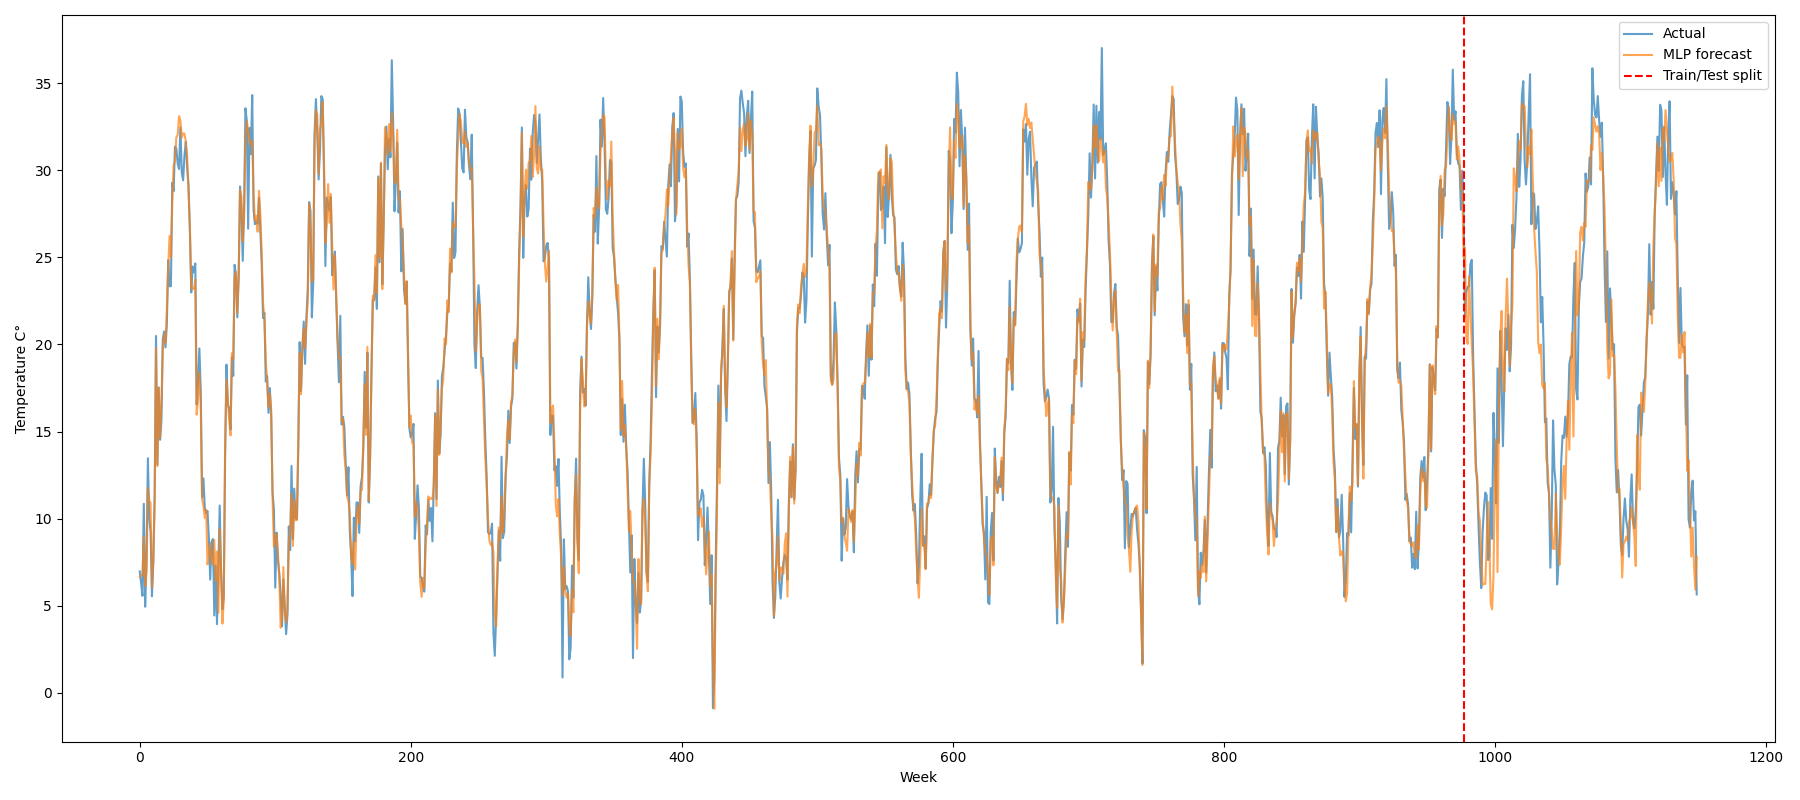
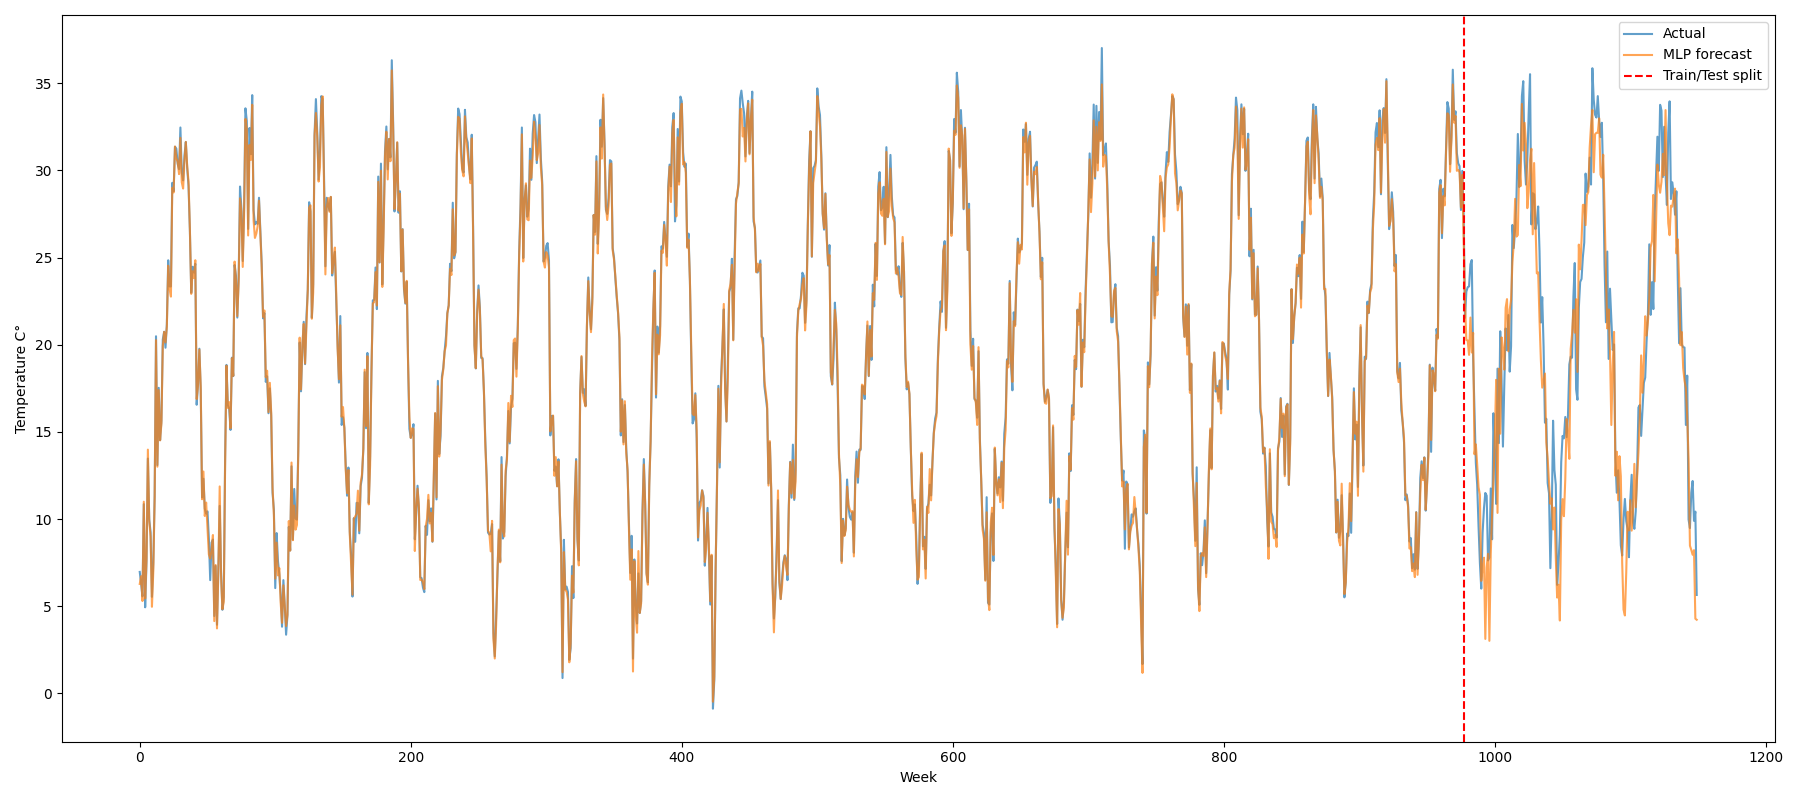
fix(project): mlp features

diff --git a/eraclito/project.py b/eraclito/project.py
@@ -279,7 +279,7 @@ if __name__ == "__main__":
         print("Saved plot to file: Sarimax_figure.png")
 
     # LSTM / MLP
-    if False:
+    if True:
         dataset_indexed = dataset.set_index(PragaDate)
 
         lags = [
@@ -298,6 +298,8 @@ if __name__ == "__main__":
             dataset_indexed[f'{DAILY_PREC_LAG}{lag}'] = dataset_indexed[DAILY_PREC].shift(lag)
 
             features.append(f'{DAILY_TMAX_LAG}{lag}')
+            features.append(f'{DAILY_TMIN_LAG}{lag}')
+            features.append(f'{DAILY_PREC_LAG}{lag}')
 
         target = DAILY_TMAX
 
